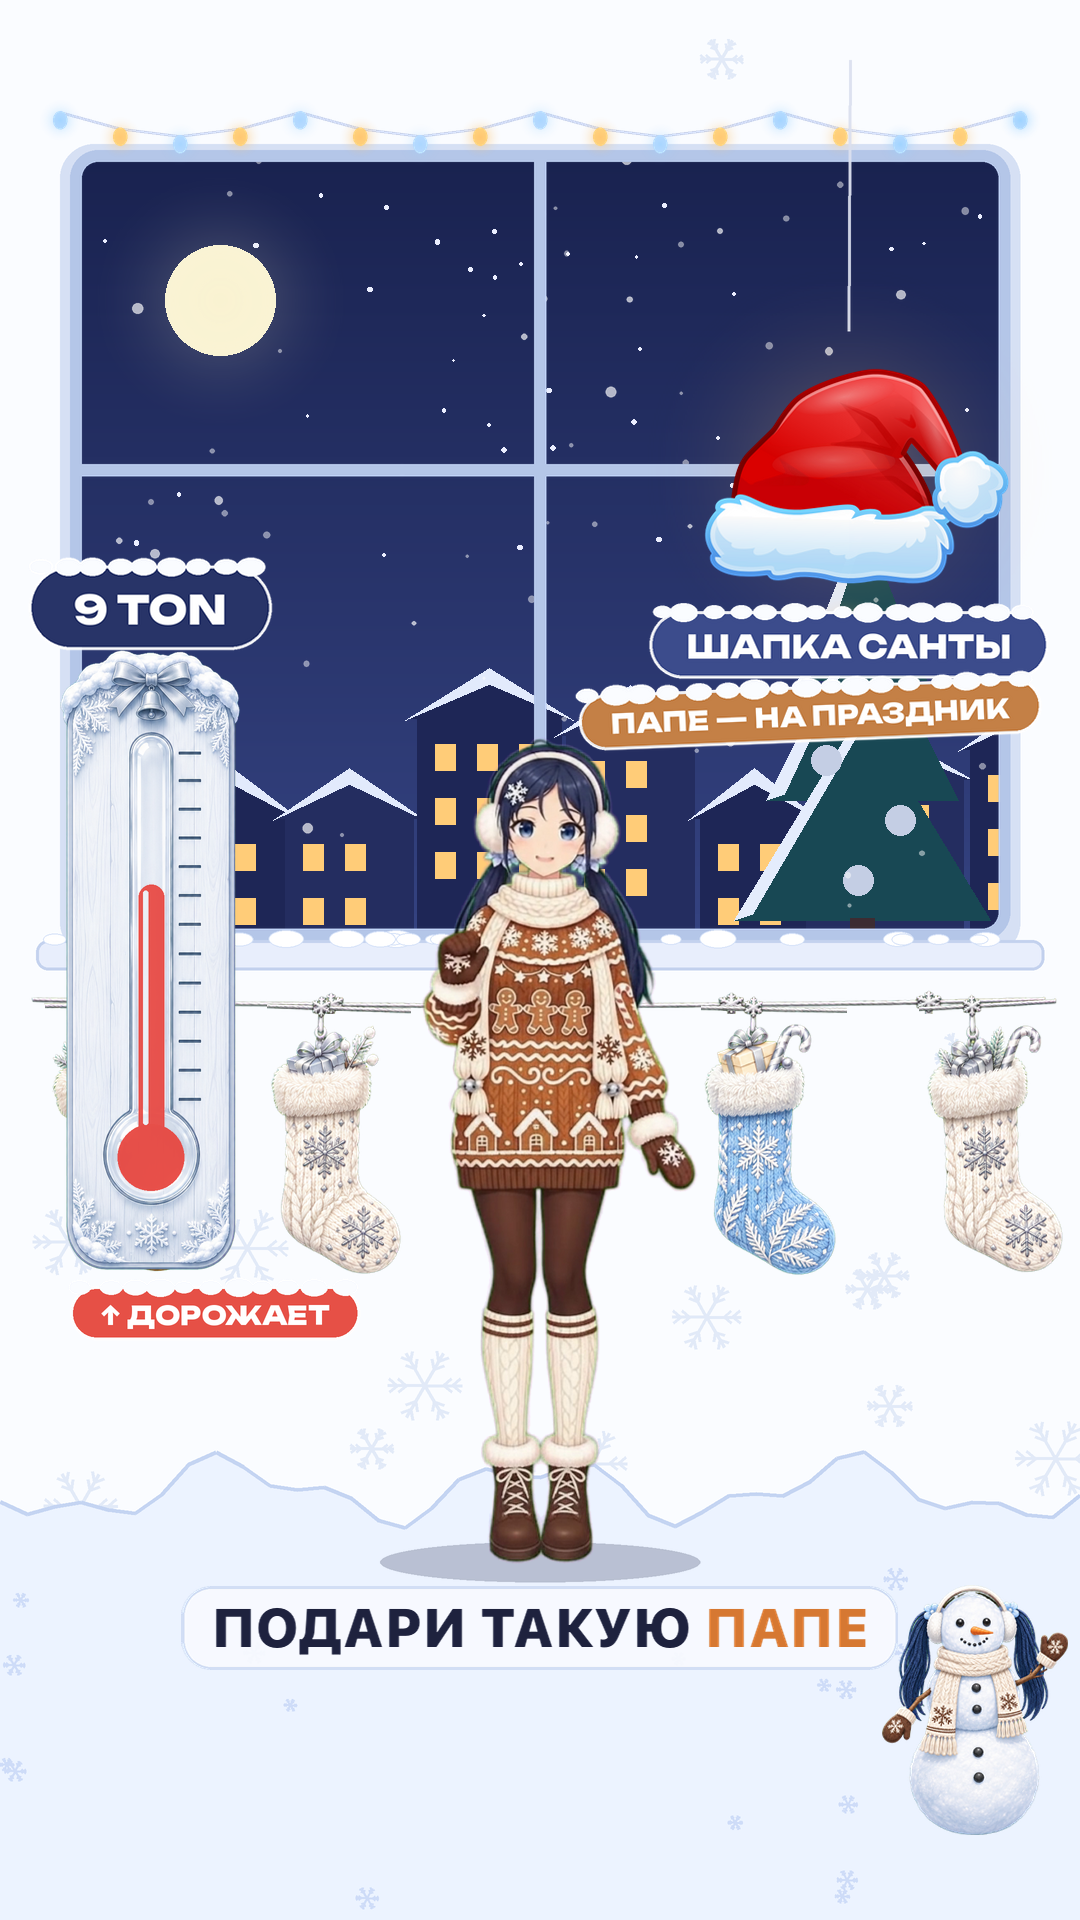
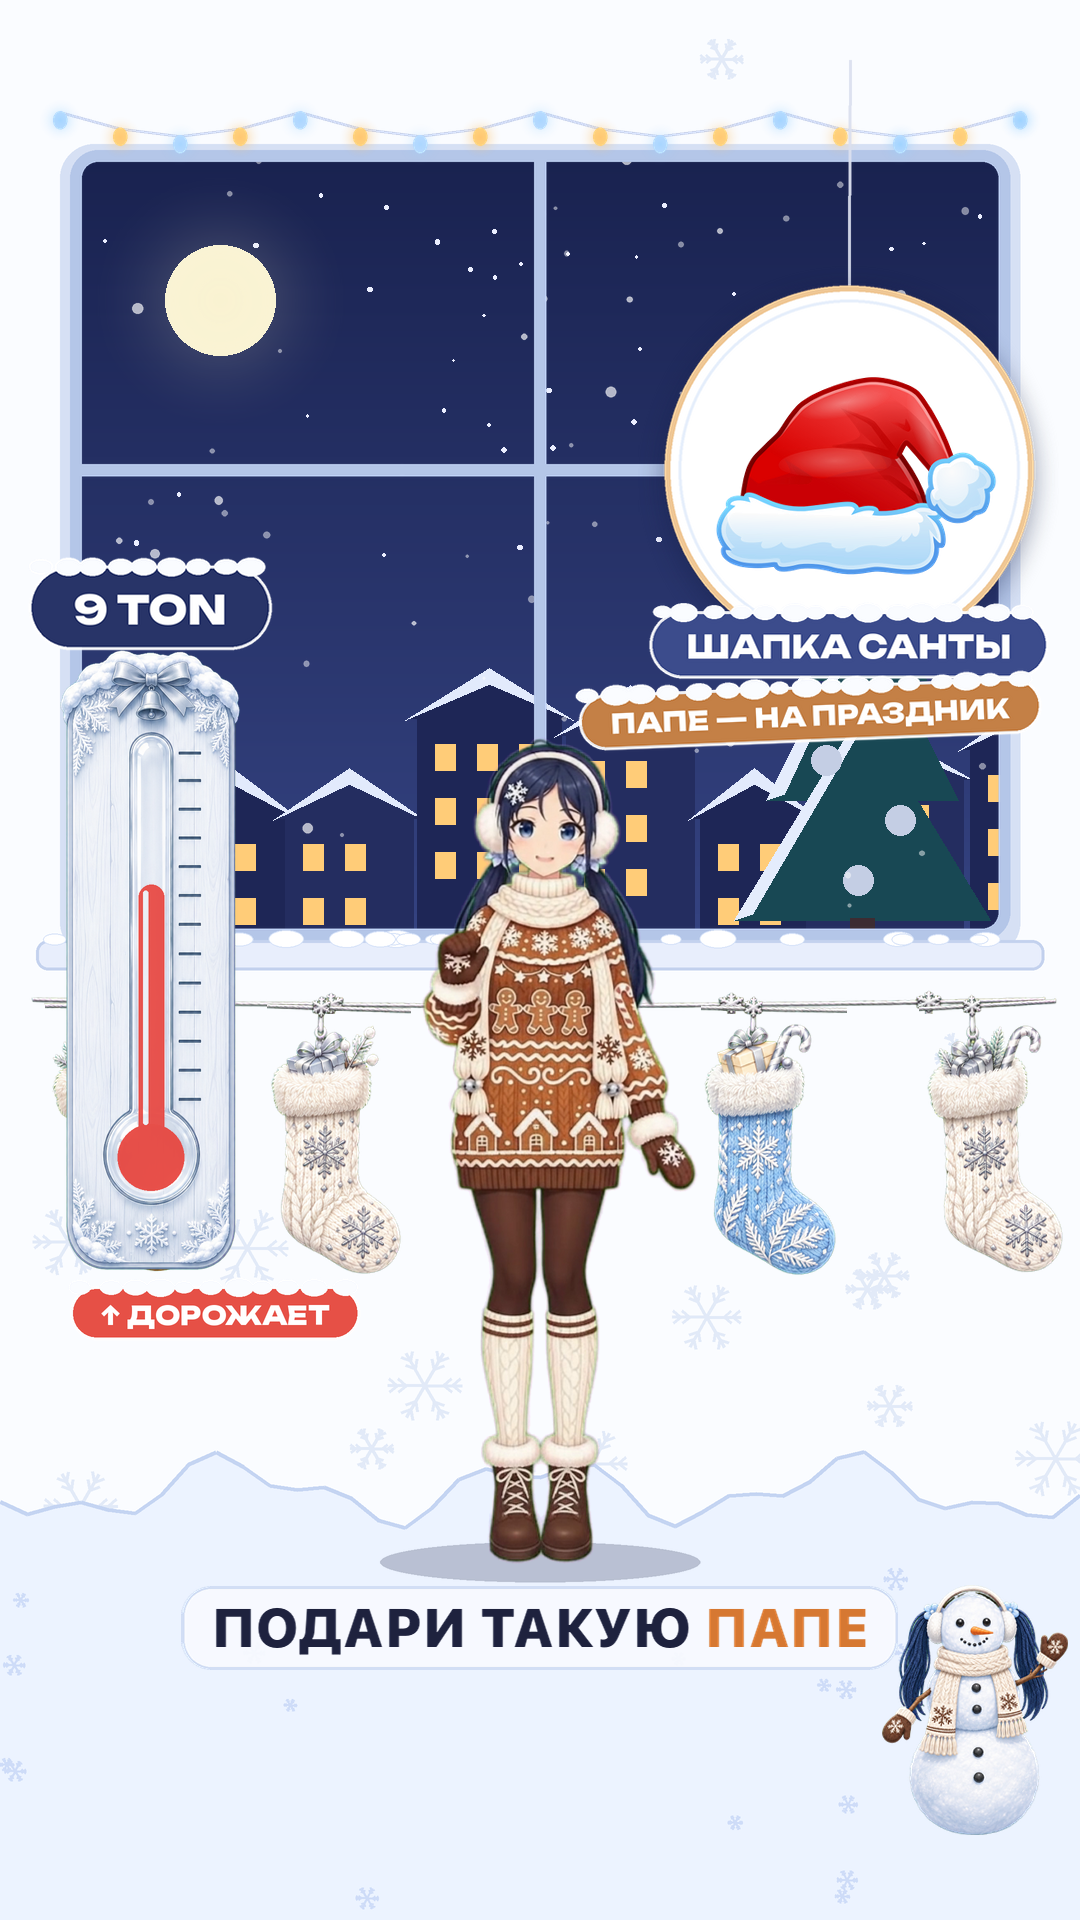
53: подарки на белых кружках-подложках, отпечаток ладони меньше
Claude-Session: https://claude.ai/code/session_012PNwYZXdw6QfqQCMnTcc5j

Changed region(s): [[0.6111, 0.125, 0.9778, 0.3438]]

diff --git a/projects/53-mita-winter/render.py b/projects/53-mita-winter/render.py
@@ -137,6 +137,31 @@ def radial(size, rgb, power=2.0):
     return fx.radial(size, rgb, power, 1.0)
 
 
+@functools.lru_cache(maxsize=16)
+def badge_img(d, ring=(196, 212, 242)):
+    """Белый «снежный» кружок-подложка под подарок: чтобы NFT читались на тёмном окне."""
+    S = 2
+    pad = 26
+    n = (d + 2 * pad) * S
+    im = Image.new('RGBA', (n, n), (0, 0, 0, 0))
+    sh = Image.new('L', (n, n), 0)
+    ImageDraw.Draw(sh).ellipse((pad * S, (pad + 8) * S, (pad + d) * S, (pad + d + 8) * S), fill=110)
+    sh = sh.filter(ImageFilter.GaussianBlur(12 * S))
+    im.paste((20, 30, 70, 255), (0, 0), sh)
+    dr = ImageDraw.Draw(im)
+    dr.ellipse((pad * S, pad * S, (pad + d) * S, (pad + d) * S), fill=(255, 255, 255, 255), outline=ring + (255,),
+               width=6 * S)
+    dr.ellipse(((pad + 14) * S, (pad + 14) * S, (pad + d - 14) * S, (pad + d - 14) * S), outline=(232, 240, 252, 255),
+               width=3 * S)
+    return im.resize((n // S, n // S), Image.LANCZOS)
+
+
+def gift_badge(cv, im, x, y, s=1.0, a=1.0, rot=0.0, ring=(196, 212, 242)):
+    d = int(max(im.size) * 1.12)
+    put(cv, badge_img(d, ring), x, y, s, a)
+    put(cv, im, x, y, s * 0.92, a, rot)
+
+
 # ------------------------------------------------------------------ городок за окном
 SKY0, SKY1 = (20, 28, 70), (52, 66, 128)
 WALL, FLOOR = (46, 58, 112), (64, 80, 140)
@@ -594,9 +619,8 @@ def scene_gifts(cv, t):
         X1, Y1 = mp(gx, gy - size * 0.42)
         d.line((X0, Y0, X1, Y1), fill=(220, 225, 240, 230), width=int(3 * S))
     fx.over(cv, fx.draw_rgba((600, 40, 1080, gy), string), ga)
-    put(cv, radial(256, WARM if key != 'stock' else ICE), gx, gy, 1.7, 0.35 * ga)
     p = pop(t, t0, 0.5)
-    put(cv, im, gx, gy, p, ga, sw * 0.6)
+    gift_badge(cv, im, gx, gy, p, ga, sw * 0.6, (240, 200, 150) if key != 'stock' else (170, 200, 240))
     put(cv, pill(name, (60, 76, 140), 32), gx, gy + size * 0.52, pop(t, t0 + 0.2), ga)
     # комментарий Миты зрителю
     ca = appear(t, tc, 0.3) * a_all * (1 - appear(t, (GIFTS[j + 1][1] if j + 1 < len(GIFTS) else GIFT_END) - 0.3, 0.3))
@@ -727,7 +751,7 @@ def creepy_room(cv, t, k):
     # отпечаток ладони на стекле (снаружи)
     ha = appear(t, E.HANDPRINT, 1.4) * k
     if ha > 0:
-        im = keyed('handprint', h=380)
+        im = keyed('handprint', h=240)
         arr = np.array(im).astype(np.float32)
         lum = arr[..., :3].mean(-1, keepdims=True)
         arr[..., :3] = np.clip(lum * np.array([0.82, 0.93, 1.08]) + np.array([10, 20, 40]), 0, 255)
@@ -783,7 +807,7 @@ def scene_hook(cv, t):
         x = 140 + j * 120 if j < 2 else 140 + j * 120
         y = 300 + 30 * (j % 2) + 6 * math.sin(t * 2 + j)
         gi = gift_frame(key, t, 256, j * 0.4).resize((130, 130), Image.LANCZOS)
-        put(cv, gi, x, y, pop(t, tj, 0.45), aj * (1 - 0.0))
+        gift_badge(cv, gi, x, y, pop(t, tj, 0.45), aj)
     a = appear(t, E.GLOVES_Q, 0.35) * (1 - appear(t, E.BOX_IN + 0.3, 0.4))
     if a <= 0:
         return
@@ -795,7 +819,7 @@ def scene_hook(cv, t):
     im = Image.fromarray(arr.clip(0, 255).astype(np.uint8))
     x, y = 820, 470 + 12 * math.sin(t * 2)
     put(cv, radial(256, ICE), x, y, 1.9, 0.45 * a)
-    put(cv, im, x, y, pop(t, E.GLOVES_Q, 0.5), a, 0.05 * math.sin(t * 3))
+    gift_badge(cv, im, x, y, pop(t, E.GLOVES_Q, 0.5), a, 0.05 * math.sin(t * 3))
     put(cv, utext('?', 150, 'ExtraBold', WHITE, 6, (60, 90, 170)), x + 120, y - 120, pop(t, E.GLOVES_Q + 0.25),
         a, 0.15 + 0.08 * math.sin(t * 4))
     put(cv, pill('ПЕРЕПОЛОХ!', (60, 90, 170), 28), x - 10, y + 210, pop(t, E.GLOVES_Q + 1.5), a)
@@ -850,14 +874,14 @@ def scene_tease(cv, t):
             lum = arr[..., :3].mean(-1, keepdims=True)
             arr[..., :3] = arr[..., :3] * (1 - 0.7 * jump) + lum * 0.7 * jump
             gi = Image.fromarray(arr.clip(0, 255).astype(np.uint8))
-        put(cv, gi, x, y, pop(t, E.CREEPY_END + 0.2 + 0.1 * j) * (1 - 0.15 * jump), a * (1 - 0.3 * jump))
+        gift_badge(cv, gi, x, y, pop(t, E.CREEPY_END + 0.2 + 0.1 * j) * (1 - 0.15 * jump), a * (1 - 0.3 * jump))
     ta = appear(t, E.TEASE, 0.3)
     if ta > 0:
         y = 380 - 120 * fx.ease_out_back(fx.clamp01((t - E.TEASE_JUMP) / 0.6)) + 10 * math.sin(t * 3)
         sh = 0.12 * math.sin(t * 26) * jump * (1 - ease((t - E.TEASE_JUMP - 0.8) / 0.4))
         put(cv, radial(256, (255, 236, 170)), 540, y, 2.0 + 0.5 * jump, 0.45 * ta)
         im = gift_frame('mitt', t, 512).resize((260, 260), Image.LANCZOS)
-        put(cv, im, 540, y, pop(t, E.TEASE, 0.5) * (1 + 0.25 * jump), ta, sh)
+        gift_badge(cv, im, 540, y, pop(t, E.TEASE, 0.5) * (1 + 0.25 * jump), ta, sh, (240, 200, 150))
         if jump > 0:
             for k, (dx, dy, r) in enumerate(((-170, -60, -0.3), (170, -80, 0.3), (0, -200, 0.0))):
                 put(cv, utext('!' if k < 2 else '?', 90, 'ExtraBold', (255, 220, 120), 5, INK), 540 + dx, y + dy,
@@ -950,7 +974,7 @@ def scene_price(cv, t):
     thermo(cv, 880, 1040, 760, lv, col, a, (1 - up) * appear(t, E.PRICE_THEN, 0.3))
     gi = gift_frame('mitt', t, 512).resize((230, 230), Image.LANCZOS)
     put(cv, radial(256, WARM), 880, 470, 1.6, 0.4 * a)
-    put(cv, gi, 880, 470 + 10 * math.sin(t * 2), pop(t, E.PRICE + 0.1), a)
+    gift_badge(cv, gi, 880, 470 + 10 * math.sin(t * 2), pop(t, E.PRICE + 0.1), a, 0.0, (240, 200, 150))
     put(cv, pill('ТОГДА: 3–4 TON', (80, 110, 170), 34), 520, 560, pop(t, E.PRICE_THEN), a * appear(t, E.PRICE_THEN, 0.2))
     put(cv, pill('СЕЙЧАС: 10 TON', (232, 70, 64), 38), 540, 650, pop(t, E.PRICE_NOW + 0.4),
         a * appear(t, E.PRICE_NOW + 0.4, 0.2))
